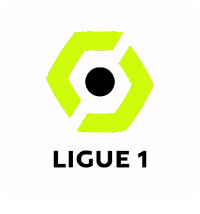
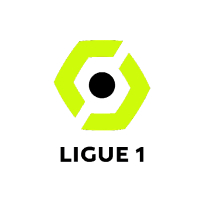
Fixed the competition table css, adjusted home tables cells, modified footer to make it more similar to figma version

Changed region(s): [[0.21, 0.12, 0.78, 0.66], [0.24, 0.69, 0.75, 0.81]]

diff --git a/Solution/Main/public/stylesheets/style.css b/Solution/Main/public/stylesheets/style.css
@@ -2,8 +2,7 @@
 @media (max-width: 820px), (max-width: 768px), (max-width: 1024px), (max-width: 912px), (max-width: 540px) {
   .cell {
     width: 100%;
-    padding-right: 0;
-    padding-bottom: 20px;
+    padding: 20px;
   }
   .row {
     padding: 0 !important;
@@ -51,10 +50,7 @@ img {
 
 /* Tables */
 .table {
-  display: flex;
-  align-items: center;
-  justify-content: center;
-  height: 50%;
+  padding: 20px;
 }
 .topTable {
   margin: 0 !important;
@@ -68,21 +64,22 @@ img {
 
 /* Cells */
 .cell {
-  display: flex;
-  justify-content: center;
-  align-items: center;
   background-color: rgba(7, 18, 36, 0.5);
+  padding: 0 !important;
 }
 .cell-img-1 {
   border-radius: 20px;
-  width: 80%;
+  width: 65%;
   height: auto;
+  margin: 10px;
+  padding: 0 !important;
 }
 .cell-img-2 {
   border-radius: 100px;
   width: 70%;
   height: auto;
   padding: 0;
+  margin: 10px;
 }
 
 /* Border Radius */
@@ -265,12 +262,20 @@ img {
   left: 0;
   bottom: 0;
   width: 100%;
-  background-color: #ececec;
-  color: black;
+  background-color: #071224;
   text-align: center;
-}
-.footer {
+  font-family: 'Poppins', sans-serif;
   margin-top: auto;
+}
+.social-icons {
+  margin-top: 15px;
+  width: 100%;
+  height: auto;
+}
+
+.icon-padding {
+    margin: 0 !important;
+    padding: 0 !important;
 }
 
 .btn {
@@ -286,7 +291,7 @@ img {
 
 .btn.rounded-pill.me-2 {
   /* background-color: #3f474f !important; old color */
-  background-color: #050b0e !important;
+  background-color: #071224 !important;
 }
 
 .navbar {

diff --git a/Solution/Main/public/stylesheets/competition-table.css b/Solution/Main/public/stylesheets/competition-table.css
@@ -52,12 +52,11 @@ body {
 }
 
 .table thead th {
-    background-color: rgba(255, 255, 255, 0.8); 
+    background-color: rgba(255, 255, 255, 0.8);
     border: 0.5px solid aliceblue;
     color: #000000;
     text-align: center;
-    vertical-align: middle; /* Add this line */
-    text-justify: center;
+    vertical-align: middle;
 }
 .table tbody td {
     background-color: rgba(255, 255, 255, 0.8);
